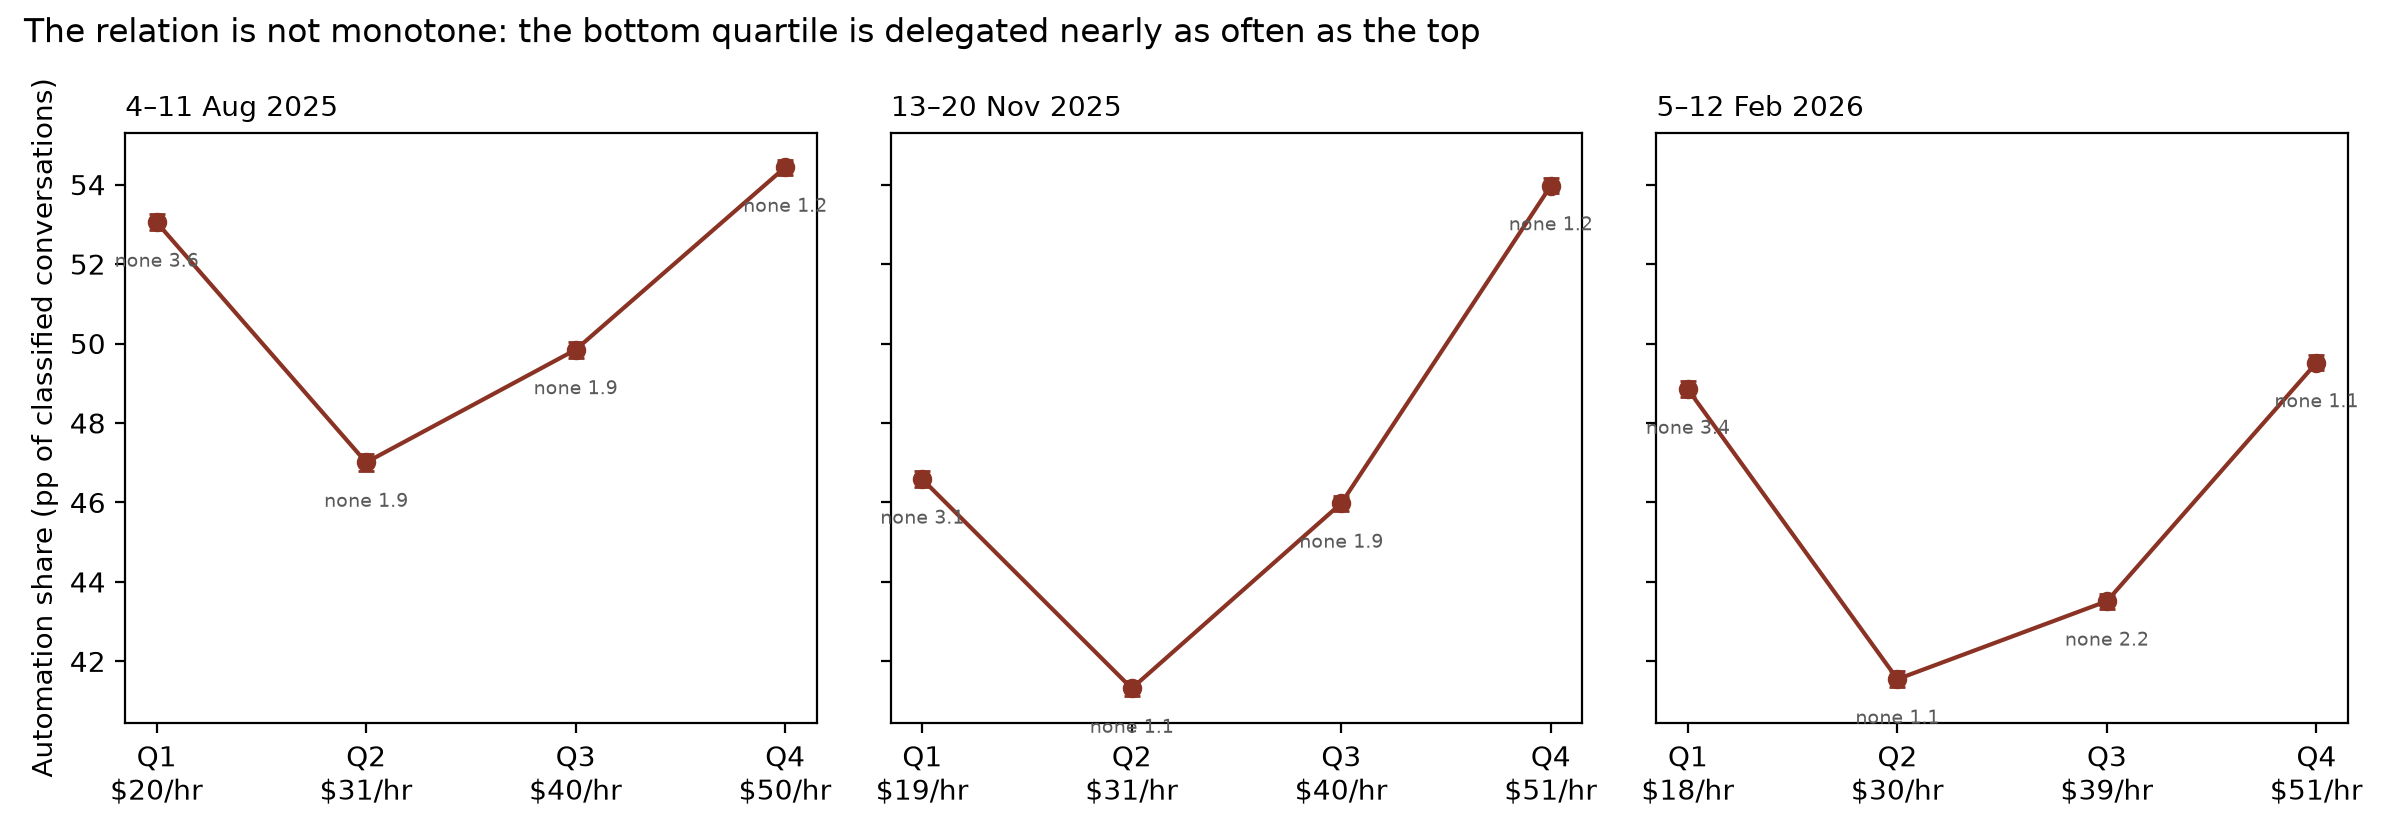
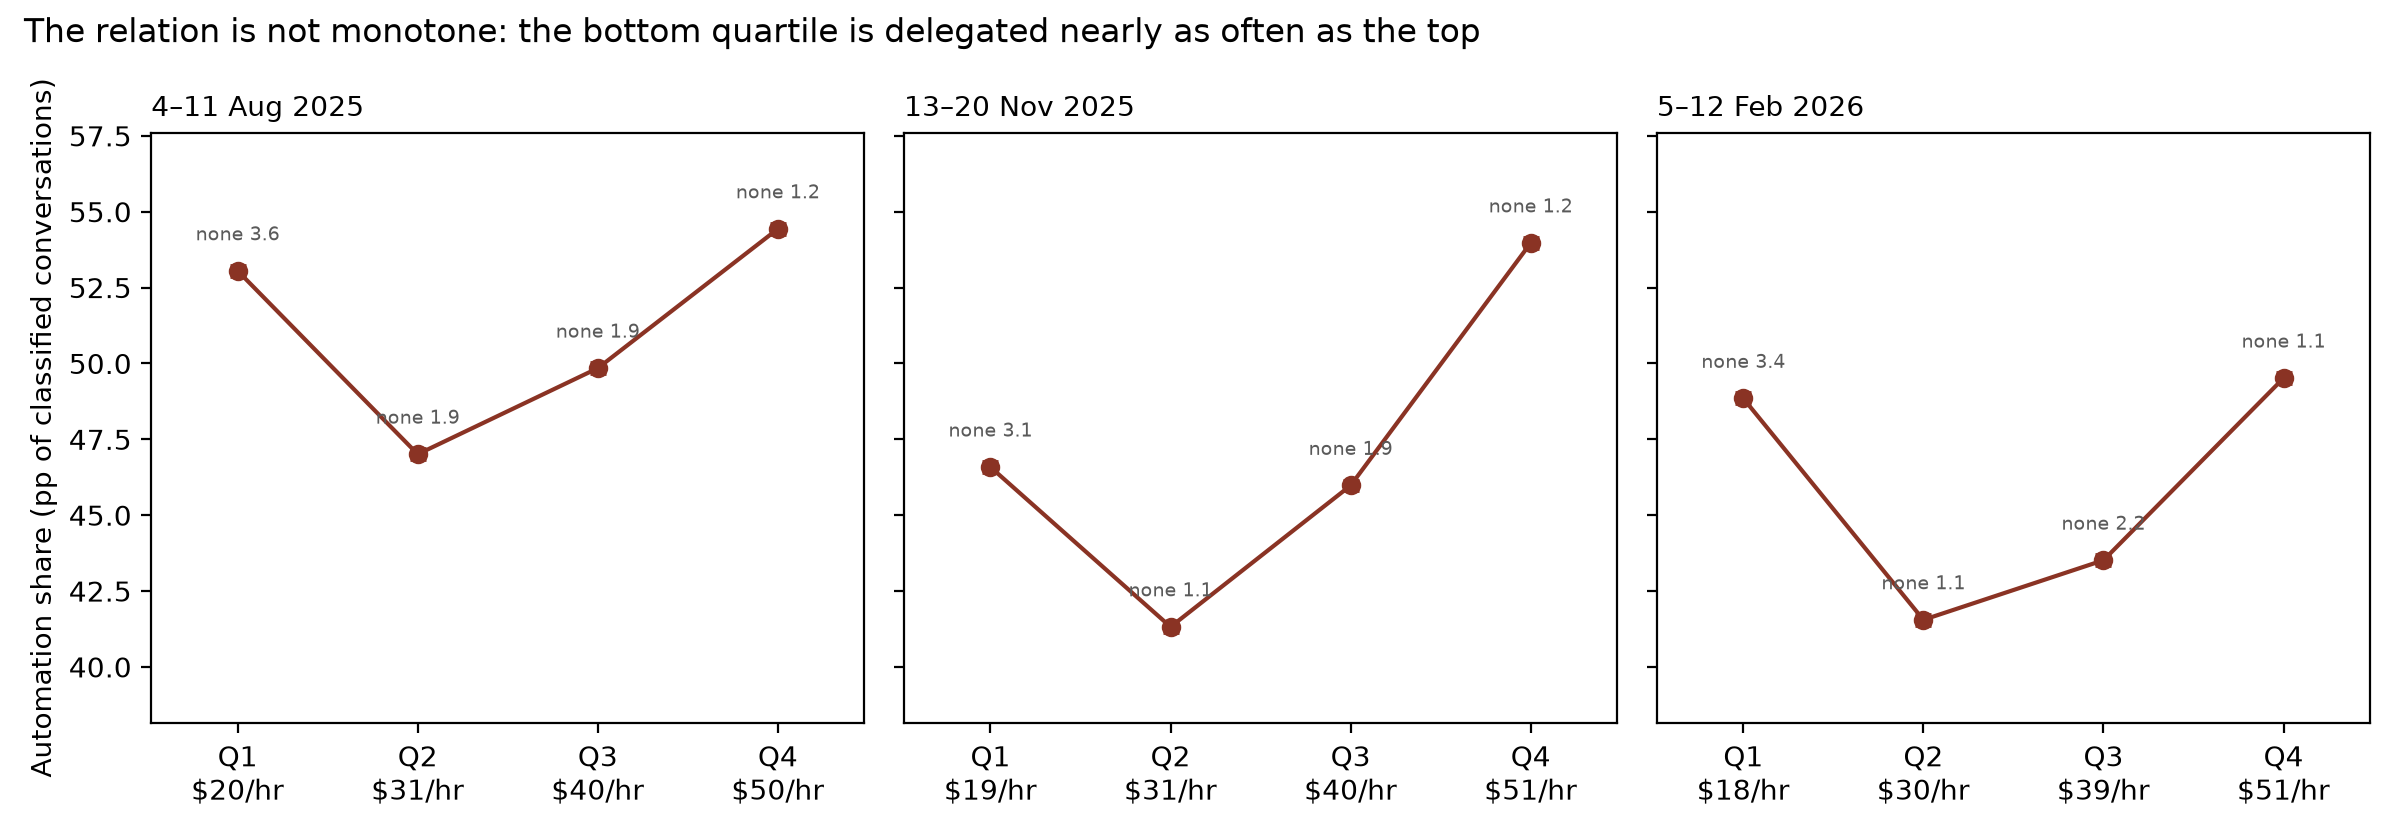
analyst: post1 results phase close (ideas, room status, full re-run of 01-09)

diff --git a/posts/post1/scripts/09_results_and_figures.py b/posts/post1/scripts/09_results_and_figures.py
@@ -207,8 +207,9 @@ def figures(head: dict, legs: dict, rob: dict) -> dict:
         axes[i].errorbar(np.arange(4), vals, yerr=err, fmt="o-", color="#8a3324", capsize=3)
         for k in (1, 2, 3, 4):
             axes[i].annotate(f"none {sh[f'Q{k}']['none_share']:.1f}", (k - 1, vals[k - 1]),
-                             textcoords="offset points", xytext=(0, -16), ha="center", fontsize=7,
+                             textcoords="offset points", xytext=(0, 11), ha="center", fontsize=7,
                              color="#5a5a5a")
+        axes[i].margins(x=0.16, y=0.22)
         axes[i].set_xticks(np.arange(4))
         axes[i].set_xticklabels([f"Q{k}\n${sh[f'Q{k}']['mean_wage']:.0f}/hr" for k in (1, 2, 3, 4)])
         axes[i].set_title(WAVE_LABEL[w], loc="left", fontsize=10)
@@ -255,10 +256,15 @@ def figures(head: dict, legs: dict, rob: dict) -> dict:
                              fmt="o", color="#4a6fa5", capsize=4)
             axes[i].annotate(f"{r['D_L']:+.1f}", (j, r["D_L"]), textcoords="offset points",
                              xytext=(10, -3), fontsize=8, color="#4a6fa5")
-        axes[i].set_xticks(np.arange(len(rows)))
-        axes[i].set_xticklabels([names[r["leg"]] for r in rows], fontsize=8)
+        # the three leg positions are fixed across panels so that August's missing leg (e) reads as
+        # untestable rather than as a different leg
+        axes[i].set_xlim(-0.6, 2.6)
+        axes[i].set_xticks(np.arange(3))
+        labels = [names["a"], names["b"], names["e"] if len(rows) == 3 else
+                  "(e) work-dominant tasks\n(no `use_case` facet)"]
+        axes[i].set_xticklabels(labels, fontsize=8)
         axes[i].set_title(WAVE_LABEL[w], loc="left", fontsize=10)
-        axes[i].legend(frameon=False, fontsize=7, loc="lower left")
+        axes[i].legend(frameon=False, fontsize=7, loc="upper left")
     axes[0].set_ylabel("Top-minus-bottom difference under the leg (pp)")
     fig.suptitle("Removing the coding family reverses the gradient in every window", x=0.01, ha="left")
     fig.tight_layout()

diff --git a/posts/post1/notes/ideas.md b/posts/post1/notes/ideas.md
@@ -1,0 +1,63 @@
+# Ideas noticed while running post1, for a later post — none of them run
+
+Written by the analyst while executing `posts/post1/prereg/prereg.md`. Everything here is **outside**
+the pre-registration and outside the three named exploratory tests, so nothing below was estimated.
+Each entry names what was seen in passing and what a later post would have to pre-register.
+
+## 1. One small geography can move a published task-level statistic by a dozen points
+
+Dropping the 23 November tasks where Seychelles exceeds 10% of the global conversation count (the
+pre-registered X5 cut, 11.594 pp of the wave) moves that wave's top-minus-bottom difference from
+**+7.38 to −4.58 pp** — a flagged unit that the report excludes and the file does not, reaching a
+task-level rate that no netting can clean because intersections are global only. A methods post
+could ask, across the whole Index, which published task-level statistics are sensitive to the two
+units the reports exclude (Seychelles Nov 2025, Utah Aug 2025) and how a reader is meant to know.
+Would need: the per-task country weights where they exist, and a pre-registered sensitivity grid.
+
+## 2. Occupational wages are a mass point, not a continuum, and rank-based designs cut through them
+
+`wage_data.csv` prices 974 occupations, and one value — $43.40/hr — is the third quartile boundary
+in all three waves, carrying 8–11 pp of a wave across 99–111 tasks. Any quartile design on
+occupational wage is therefore cutting a mass point, and which tied tasks land above the line is not
+a function of the wage. A methods post could measure how much of the published wage-quartile
+literature (Anthropic's Figure 1.3 among it) rests on tie-breaking, and propose the fractional
+allocation this post reports beside its primary.
+
+## 3. Required preparation orders delegation the other way from price
+
+Exploratory (c) found the Job-Zone slope negative (−6.0 to −6.8 pp per zone) where the wage slope is
+positive or flat. Job Zone is preparation, not price, and the two orderings disagree. A later post
+would pre-register the two-ordering contrast properly — Job Zone, education, wage and `ChanceAuto`
+as competing orderings of the same delegation measure, with the collinearity of the four reported —
+rather than reading it off one exploratory slope.
+
+## 4. The surface, not the work: the API's gradient has the opposite sign
+
+Exploratory (a) found D negative on the 1P API in all three waves (−2.40 / −2.47 / −5.15) against
+positive on Claude.ai. Since the API's automation share is 82–87% and Claude.ai's is 46–51%, the two
+surfaces are not comparable levels; but a post that pre-registered the *interaction* — the same task
+seen on both surfaces, with the surface as the treatment and the task as its own control — would be
+a genuinely new cut, and the task sets overlap enough to identify it.
+
+## 5. `feedback loop` is the pattern that moved, and it moved in the top quartile
+
+Exploratory (b) found the whole of the positive gradient carried by `feedback loop` (+8.4 / +16.9 /
++10.6 pp Q4−Q1) while `directive` is negative in every wave. A later post on the agentic surface
+could take `feedback loop` as its outcome across all six released waves and ask where it grew, with
+the 2025-09 → 2026-06 comparability caveats stated.
+
+## 6. A data note for the steward, not a post: BLS-EP is keyed on SOC-2018
+
+`data.bls.gov/projections/occupationProj` prices 670 of the 775 7-character O\*NET-SOC **2010**
+codes, and the codes it misses include the renumbered computer family (`15-1132` → `15-1252`). Any
+employment-weighted rule built on BLS-EP is therefore unidentified for whole occupational families,
+not just for the two tasks `feasibility.md` §1 C7 names. This belongs in `data/ATLAS.md`; it is
+written to the steward in `room/analyst-2026-09-17-results-post1.md` rather than edited in.
+
+## 7. A within-group permutation is a composition diagnostic, not a null
+
+The pre-registered placebo permutes the wage within SOC major group, which preserves the
+between-group composition; its distribution is centred on +3.4 to +8.9 pp rather than on zero. That
+is a usable diagnostic — the gap between the observed statistic and the permutation mean is the
+within-group part of the gradient — but it needs its own pre-registration, and a second permutation
+scheme (unrestricted) beside it to separate the two.

diff --git a/posts/post1/notes/lab-notebook.md b/posts/post1/notes/lab-notebook.md
@@ -443,3 +443,34 @@ captions in `posts/post1/outputs/figures.json`.
 a real number passes; one inventing 99.87 fails), and it already governs the figure captions: no
 caption may carry a number that is not in `results.json`, which is how the mis-transcribed SOC-15
 shares above were caught. Check block passed.
+
+## 2026-09-17 · Stage 2 step 5 close — the whole set re-run from an empty scratch directory
+
+**Run:** `/tmp/post1` deleted, then `01_power_rules.py` … `09_results_and_figures.py` in order.
+All nine check blocks pass (3 / 17 / 2 / 88 / 2 / 9 / 1 / 4 / 2 seconds), and the passing output of
+each is committed in `posts/post1/outputs/checks/<script>.out.txt`.
+
+**Tests run against tests registered.** 17 of 17 confirmatory estimates (D, Δ_W and the slope in
+three waves each; leg (a) and leg (b) in three waves each; leg (e) in two — the eight leg tests of
+P4), the pre-registered robustness set (X3, X4, X5 and its > 20% variant, X7, the three W1 wage
+rules, the three A1 allocation rules, model (b), C7, the placebo, leg (c)'s 22 + 1
+leave-one-group-out series, the ten-largest-tasks leave-out, the fourth window) and the three named
+exploratory tests. **Nothing else was run:** model (c) is not reported (P1(c)), the country mix is
+named and not testable, and no fourth exploratory cut exists.
+
+**Deviations: four**, all logged above with the registered rule and the corrected rule both run —
+the quartile rule at the $43.40 wage mass point (both readings of D, same owner); P6's 2%
+SE-agreement tolerance for the ratio r_L (25% asserted for the ratio, 2% asserted for the linear
+contrast D_L − ½D that the half judgement is read from); recovery test 7's ±1 pp size band widened
+to ±2 pp with the Monte Carlo error printed; and, as part of the first, the tie order fixed on
+(wage, task) so the pre-registered cut is reproducible. **Corrections: three** — the A2 group
+fallback, JobZone's frame, and two SOC-15 mass figures mis-transcribed into this notebook.
+
+**Open questions for the referee's verification, not decided here.** (i) The recorded SE
+0.151 / 0.148 / 0.154 pp is the pooled-binomial arithmetic; the pre-registered formula gives
+0.1444 / 0.1404 / 0.1399 pp and both are in `results.json`. (ii) Every prereg leg-coverage figure
+reproduces except the identified-group count for leg (b), which is 9 / 9 / 9 against the recorded
+10 / 10 / 8 — the A2 assignment and the tie split move a group. (iii) The C7 sign disagreement and
+the X3 / X5 / modal-holder owner moves are reported in `results.json` under
+`facts.owner_under_robustness`; which of them the post must carry in its first sentence is the
+referee's and the director's call, not mine.

diff --git a/room/analyst-2026-09-17-results-post1.md b/room/analyst-2026-09-17-results-post1.md
@@ -1,0 +1,29 @@
+---
+from: analyst
+to: director, referee, steward
+about: post1
+type: status
+needs-reply: no
+date: 2026-09-17
+---
+
+**Stage 2 step 5 complete: the pre-registered analysis is run.** Scripts
+`posts/post1/scripts/02_build.py` … `09_results_and_figures.py` (02 build and replication
+assertions, 03 D/Δ_W/slope and the §9(1) chain, 04 the second code path plus the parametric
+bootstrap and the eight synthetic recoveries, 05 the eight leg tests and P4, 06 the robustness set,
+07 the fourth window, 08 the three exploratory tests, 09 results.json and the figures). **All nine
+check blocks pass**; the passing output of each is in `posts/post1/outputs/checks/`.
+
+**17 of 17 confirmatory estimates (8 of them leg tests) plus the 3 exploratory tests were run; no
+other test was run.** Numbers: `posts/post1/data/processed/results.json` (with `power_rules`,
+`build_facts`, `headline`, `second_implementation`, `legs`, `robustness`, `fourth_window`,
+`exploratory`). Figures and captions: `posts/post1/outputs/figures/`, `figures.json`.
+
+**Four deviations logged**, each with the registered rule and the corrected one both run, in
+`posts/post1/notes/lab-notebook.md`: the quartile rule at a wage mass point; P6's 2% tolerance on
+r_L; recovery test 7's size band; plus two CORRECTION entries (the A2 fallback, JobZone's frame) and
+one mis-transcription I found and fixed.
+
+Steward, for `data/ATLAS.md`: BLS-EP is keyed on SOC-2018, so it misses the renumbered computer
+family — `posts/post1/notes/ideas.md` §6. Referee: `notes/ideas.md` is outside the prereg and
+nothing in it was run.
